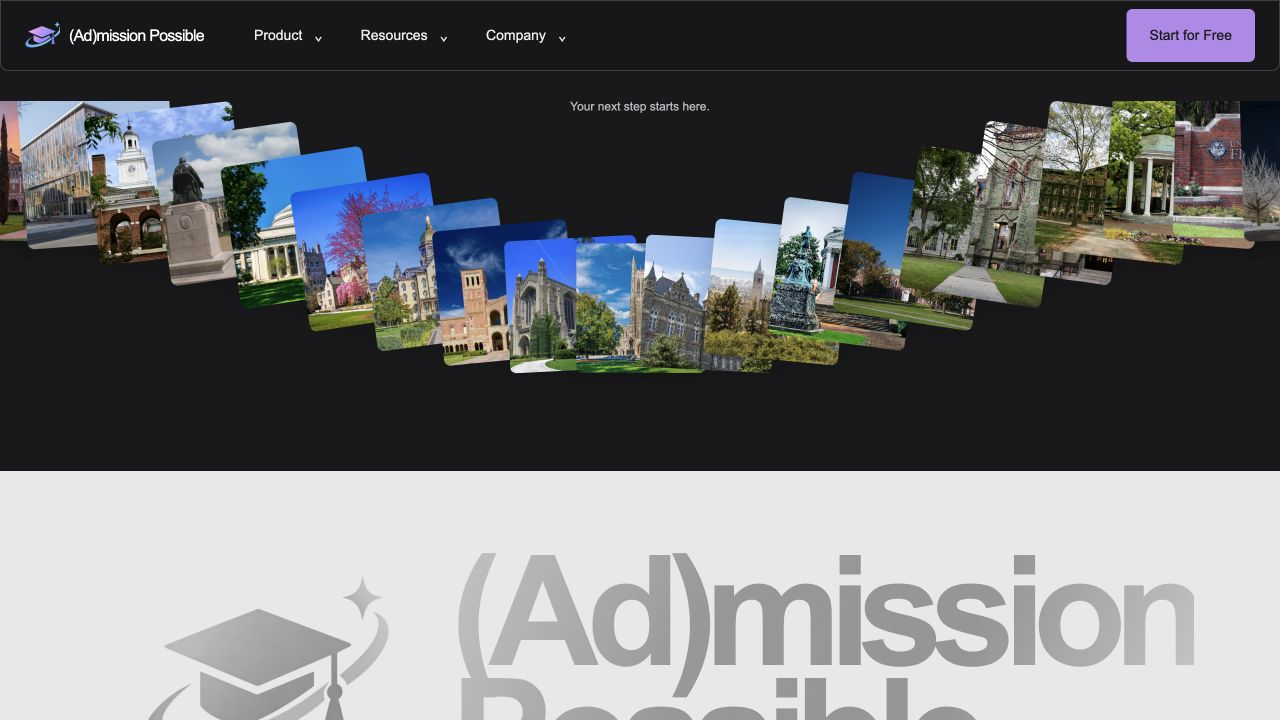
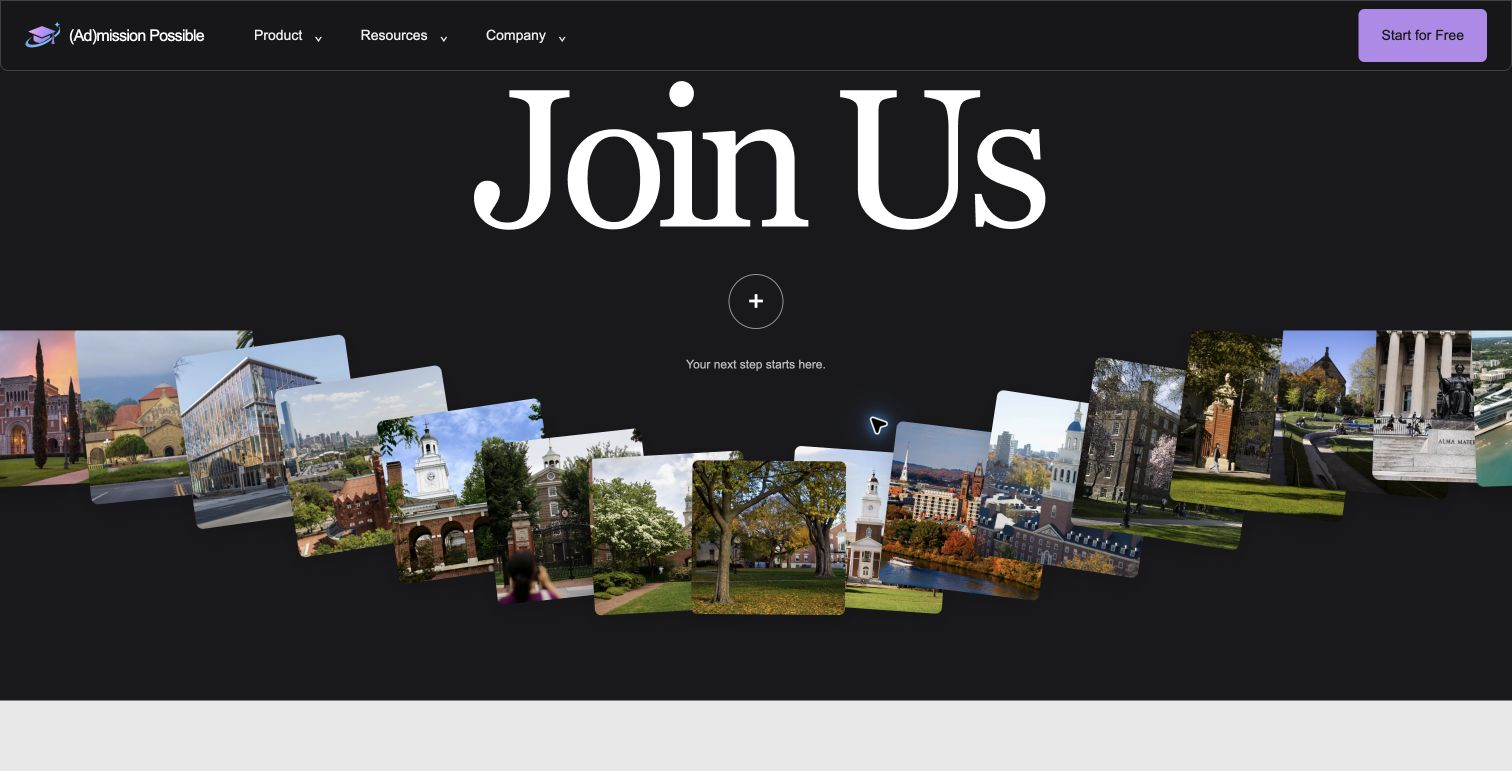
Restore curved Join Us photo conveyor

diff --git a/public/photo-scenes.js b/public/photo-scenes.js
@@ -2,7 +2,7 @@
 export function initializePhotoScenes(images, reduced, isPaused) {
   const scenes = [...document.querySelectorAll('[data-scene]')].map(el => {
     const final = el.dataset.scene === 'final';
-    const selection = final ? [2,4,6,7,9,13,15,17,37,21,27,22,28,23,29,24,30,25,31,26,32,33,34,35,36,38,0,12].map(i => images[i]) : [0, 8, 4, 12, 2, 7, 14, 6, 13, 17, 1, 16, 3].map(i => images[i]);
+    const selection = final ? images.slice(0, 21) : [0, 8, 4, 12, 2, 7, 14, 6, 13, 17, 1, 16, 3].map(i => images[i]);
     const nodes = selection.map((photo, i) => {
       const img = document.createElement('img');
       img.src = photo.src; img.alt = ''; img.className = 'photo-panel';
@@ -38,8 +38,8 @@ export function initializePhotoScenes(images, reduced, isPaused) {
         if (final) {
           // Each panel crosses the same continuous arc and wraps entirely offscreen.
           const t = (i / nodes.length + time / 34) % 1;
-          const extent = w + 620;
-          x = -310 + t * extent;
+          const extent = w + 580;
+          x = -290 + t * extent;
           const n = (x - w / 2) / (w / 2);
           y = h * .36 + Math.cos(Math.min(1.4, Math.abs(n)) * Math.PI) * h * .20;
           scale = .88 + Math.min(1, Math.abs(n)) * .18;
